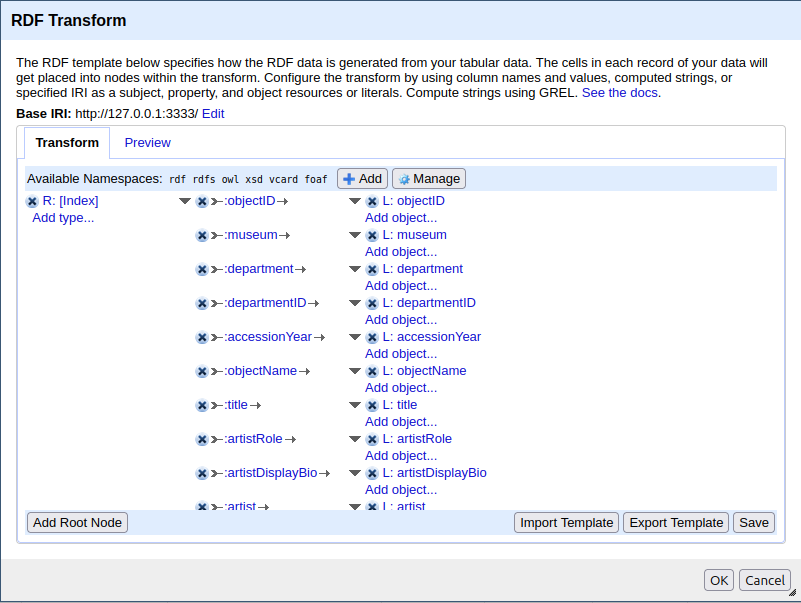
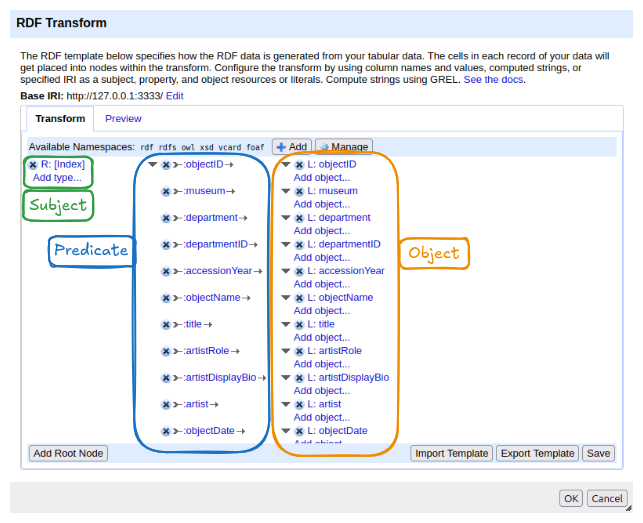
site deploy
Auto-generated via `{sandpaper}`
Source  : 49c0e96f1dabf45e04de74ced19de468ad7f9cb5
Branch  : md-outputs
Author  : GitHub Actions <actions@github.com>
Time    : 2026-05-28 12:38:04 +0000
Message : markdown source builds

Auto-generated via `{sandpaper}`
Source  : b505fab1cb0240944af9237929249dddd8930560
Branch  : main
Author  : Robert Zwick <robert.zwick@adwmainz.de>
Time    : 2026-05-28 12:37:15 +0000
Message : Add new image of rdf-transform

Changed region(s): [[0.0, 0.0, 1.0, 1.0]]

diff --git a/aio.html b/aio.html
@@ -670,7 +670,7 @@ Museum of Modern Art in Manhattan.</p>
 <button class="accordion-button solution-button collapsed" type="button" data-bs-toggle="collapse" data-bs-target="#collapseSolution1" aria-expanded="false" aria-controls="collapseSolution1">
   <h4 class="accordion-header" id="headingSolution1"> Show me the solution </h4>
 </button>
-<div id="collapseSolution1" class="accordion-collapse collapse" data-bs-parent="#accordionSolution1" aria-labelledby="headingSolution1">
+<div id="collapseSolution1" class="accordion-collapse collapse" aria-labelledby="headingSolution1" data-bs-parent="#accordionSolution1">
 <div class="accordion-body">
 <p>One way to visualize both texts in one graph is the following. If
 your solution looks different, this does not necessarily mean that it is
@@ -881,7 +881,7 @@ addresses this problem?</li>
 <button class="accordion-button solution-button collapsed" type="button" data-bs-toggle="collapse" data-bs-target="#collapseSolution1" aria-expanded="false" aria-controls="collapseSolution1">
   <h4 class="accordion-header" id="headingSolution1"> Show me the solution </h4>
 </button>
-<div id="collapseSolution1" class="accordion-collapse collapse" data-bs-parent="#accordionSolution1" aria-labelledby="headingSolution1">
+<div id="collapseSolution1" class="accordion-collapse collapse" aria-labelledby="headingSolution1" data-bs-parent="#accordionSolution1">
 <div class="accordion-body">
 <p><strong>Wikidata IRI</strong>:
 <code>https://www.wikidata.org/wiki/Q5582</code> Namespace:
@@ -1384,7 +1384,7 @@ Museum of Modern Art in Manhattan.</p>
 <button class="accordion-button solution-button collapsed" type="button" data-bs-toggle="collapse" data-bs-target="#collapseSolution1" aria-expanded="false" aria-controls="collapseSolution1">
   <h4 class="accordion-header" id="headingSolution1"> Show me the solution </h4>
 </button>
-<div id="collapseSolution1" class="accordion-collapse collapse" aria-labelledby="headingSolution1" data-bs-parent="#accordionSolution1">
+<div id="collapseSolution1" class="accordion-collapse collapse" data-bs-parent="#accordionSolution1" aria-labelledby="headingSolution1">
 <div class="accordion-body">
 <p>There is no single correct answer, your solution depends on which
 connections you modelled in your mind map. The following are examples of
@@ -1883,7 +1883,7 @@ assigning labels to them.</p>
 <button class="accordion-button solution-button collapsed" type="button" data-bs-toggle="collapse" data-bs-target="#collapseSolution1" aria-expanded="false" aria-controls="collapseSolution1">
   <h4 class="accordion-header" id="headingSolution1"> Show me the solution </h4>
 </button>
-<div id="collapseSolution1" class="accordion-collapse collapse" aria-labelledby="headingSolution1" data-bs-parent="#accordionSolution1">
+<div id="collapseSolution1" class="accordion-collapse collapse" data-bs-parent="#accordionSolution1" aria-labelledby="headingSolution1">
 <div class="accordion-body">
 <p>TODO: Add image of mindmap</p>
 <p>Central nodes are the ones with the objectIDs, artist, department and
@@ -1914,7 +1914,7 @@ museum. Modeling decisions are subjective.</p>
 <button class="accordion-button solution-button collapsed" type="button" data-bs-toggle="collapse" data-bs-target="#collapseSolution2" aria-expanded="false" aria-controls="collapseSolution2">
   <h4 class="accordion-header" id="headingSolution2"> Show me the solution </h4>
 </button>
-<div id="collapseSolution2" class="accordion-collapse collapse" aria-labelledby="headingSolution2" data-bs-parent="#accordionSolution2">
+<div id="collapseSolution2" class="accordion-collapse collapse" data-bs-parent="#accordionSolution2" aria-labelledby="headingSolution2">
 <div class="accordion-body">
 
 </div>
@@ -1963,7 +1963,7 @@ terms, meanings and rules.</p>
 <button class="accordion-button solution-button collapsed" type="button" data-bs-toggle="collapse" data-bs-target="#collapseSolution3" aria-expanded="false" aria-controls="collapseSolution3">
   <h4 class="accordion-header" id="headingSolution3"> Show me the solution </h4>
 </button>
-<div id="collapseSolution3" class="accordion-collapse collapse" aria-labelledby="headingSolution3" data-bs-parent="#accordionSolution3">
+<div id="collapseSolution3" class="accordion-collapse collapse" data-bs-parent="#accordionSolution3" aria-labelledby="headingSolution3">
 <div class="accordion-body">
 
 </div>
@@ -1994,7 +1994,7 @@ vacabularies</h3>
 <button class="accordion-button solution-button collapsed" type="button" data-bs-toggle="collapse" data-bs-target="#collapseSolution4" aria-expanded="false" aria-controls="collapseSolution4">
   <h4 class="accordion-header" id="headingSolution4"> Show me the solution </h4>
 </button>
-<div id="collapseSolution4" class="accordion-collapse collapse" aria-labelledby="headingSolution4" data-bs-parent="#accordionSolution4">
+<div id="collapseSolution4" class="accordion-collapse collapse" data-bs-parent="#accordionSolution4" aria-labelledby="headingSolution4">
 <div class="accordion-body">
 
 </div>

diff --git a/instructor/aio.html b/instructor/aio.html
@@ -673,7 +673,7 @@ Museum of Modern Art in Manhattan.</p>
 <button class="accordion-button solution-button collapsed" type="button" data-bs-toggle="collapse" data-bs-target="#collapseSolution1" aria-expanded="false" aria-controls="collapseSolution1">
   <h4 class="accordion-header" id="headingSolution1"> Show me the solution </h4>
 </button>
-<div id="collapseSolution1" class="accordion-collapse collapse" data-bs-parent="#accordionSolution1" aria-labelledby="headingSolution1">
+<div id="collapseSolution1" class="accordion-collapse collapse" aria-labelledby="headingSolution1" data-bs-parent="#accordionSolution1">
 <div class="accordion-body">
 <p>One way to visualize both texts in one graph is the following. If
 your solution looks different, this does not necessarily mean that it is
@@ -885,7 +885,7 @@ addresses this problem?</li>
 <button class="accordion-button solution-button collapsed" type="button" data-bs-toggle="collapse" data-bs-target="#collapseSolution1" aria-expanded="false" aria-controls="collapseSolution1">
   <h4 class="accordion-header" id="headingSolution1"> Show me the solution </h4>
 </button>
-<div id="collapseSolution1" class="accordion-collapse collapse" data-bs-parent="#accordionSolution1" aria-labelledby="headingSolution1">
+<div id="collapseSolution1" class="accordion-collapse collapse" aria-labelledby="headingSolution1" data-bs-parent="#accordionSolution1">
 <div class="accordion-body">
 <p><strong>Wikidata IRI</strong>:
 <code>https://www.wikidata.org/wiki/Q5582</code> Namespace:
@@ -1389,7 +1389,7 @@ Museum of Modern Art in Manhattan.</p>
 <button class="accordion-button solution-button collapsed" type="button" data-bs-toggle="collapse" data-bs-target="#collapseSolution1" aria-expanded="false" aria-controls="collapseSolution1">
   <h4 class="accordion-header" id="headingSolution1"> Show me the solution </h4>
 </button>
-<div id="collapseSolution1" class="accordion-collapse collapse" aria-labelledby="headingSolution1" data-bs-parent="#accordionSolution1">
+<div id="collapseSolution1" class="accordion-collapse collapse" data-bs-parent="#accordionSolution1" aria-labelledby="headingSolution1">
 <div class="accordion-body">
 <p>There is no single correct answer, your solution depends on which
 connections you modelled in your mind map. The following are examples of
@@ -1890,7 +1890,7 @@ assigning labels to them.</p>
 <button class="accordion-button solution-button collapsed" type="button" data-bs-toggle="collapse" data-bs-target="#collapseSolution1" aria-expanded="false" aria-controls="collapseSolution1">
   <h4 class="accordion-header" id="headingSolution1"> Show me the solution </h4>
 </button>
-<div id="collapseSolution1" class="accordion-collapse collapse" aria-labelledby="headingSolution1" data-bs-parent="#accordionSolution1">
+<div id="collapseSolution1" class="accordion-collapse collapse" data-bs-parent="#accordionSolution1" aria-labelledby="headingSolution1">
 <div class="accordion-body">
 <p>TODO: Add image of mindmap</p>
 <p>Central nodes are the ones with the objectIDs, artist, department and
@@ -1921,7 +1921,7 @@ museum. Modeling decisions are subjective.</p>
 <button class="accordion-button solution-button collapsed" type="button" data-bs-toggle="collapse" data-bs-target="#collapseSolution2" aria-expanded="false" aria-controls="collapseSolution2">
   <h4 class="accordion-header" id="headingSolution2"> Show me the solution </h4>
 </button>
-<div id="collapseSolution2" class="accordion-collapse collapse" aria-labelledby="headingSolution2" data-bs-parent="#accordionSolution2">
+<div id="collapseSolution2" class="accordion-collapse collapse" data-bs-parent="#accordionSolution2" aria-labelledby="headingSolution2">
 <div class="accordion-body">
 
 </div>
@@ -1970,7 +1970,7 @@ terms, meanings and rules.</p>
 <button class="accordion-button solution-button collapsed" type="button" data-bs-toggle="collapse" data-bs-target="#collapseSolution3" aria-expanded="false" aria-controls="collapseSolution3">
   <h4 class="accordion-header" id="headingSolution3"> Show me the solution </h4>
 </button>
-<div id="collapseSolution3" class="accordion-collapse collapse" aria-labelledby="headingSolution3" data-bs-parent="#accordionSolution3">
+<div id="collapseSolution3" class="accordion-collapse collapse" data-bs-parent="#accordionSolution3" aria-labelledby="headingSolution3">
 <div class="accordion-body">
 
 </div>
@@ -2001,7 +2001,7 @@ vacabularies</h3>
 <button class="accordion-button solution-button collapsed" type="button" data-bs-toggle="collapse" data-bs-target="#collapseSolution4" aria-expanded="false" aria-controls="collapseSolution4">
   <h4 class="accordion-header" id="headingSolution4"> Show me the solution </h4>
 </button>
-<div id="collapseSolution4" class="accordion-collapse collapse" aria-labelledby="headingSolution4" data-bs-parent="#accordionSolution4">
+<div id="collapseSolution4" class="accordion-collapse collapse" data-bs-parent="#accordionSolution4" aria-labelledby="headingSolution4">
 <div class="accordion-body">
 
 </div>

diff --git a/05_model.html b/05_model.html
@@ -421,7 +421,7 @@ assigning labels to them.</p>
 <button class="accordion-button solution-button collapsed" type="button" data-bs-toggle="collapse" data-bs-target="#collapseSolution1" aria-expanded="false" aria-controls="collapseSolution1">
   <h4 class="accordion-header" id="headingSolution1"> Show me the solution </h4>
 </button>
-<div id="collapseSolution1" class="accordion-collapse collapse" aria-labelledby="headingSolution1" data-bs-parent="#accordionSolution1">
+<div id="collapseSolution1" class="accordion-collapse collapse" data-bs-parent="#accordionSolution1" aria-labelledby="headingSolution1">
 <div class="accordion-body">
 <p>TODO: Add image of mindmap</p>
 <p>Central nodes are the ones with the objectIDs, artist, department and
@@ -450,7 +450,7 @@ museum. Modeling decisions are subjective.</p>
 <button class="accordion-button solution-button collapsed" type="button" data-bs-toggle="collapse" data-bs-target="#collapseSolution2" aria-expanded="false" aria-controls="collapseSolution2">
   <h4 class="accordion-header" id="headingSolution2"> Show me the solution </h4>
 </button>
-<div id="collapseSolution2" class="accordion-collapse collapse" aria-labelledby="headingSolution2" data-bs-parent="#accordionSolution2">
+<div id="collapseSolution2" class="accordion-collapse collapse" data-bs-parent="#accordionSolution2" aria-labelledby="headingSolution2">
 <div class="accordion-body">
 
 </div>
@@ -491,7 +491,7 @@ terms, meanings and rules.</p>
 <button class="accordion-button solution-button collapsed" type="button" data-bs-toggle="collapse" data-bs-target="#collapseSolution3" aria-expanded="false" aria-controls="collapseSolution3">
   <h4 class="accordion-header" id="headingSolution3"> Show me the solution </h4>
 </button>
-<div id="collapseSolution3" class="accordion-collapse collapse" aria-labelledby="headingSolution3" data-bs-parent="#accordionSolution3">
+<div id="collapseSolution3" class="accordion-collapse collapse" data-bs-parent="#accordionSolution3" aria-labelledby="headingSolution3">
 <div class="accordion-body">
 
 </div>
@@ -520,7 +520,7 @@ vacabularies</h3>
 <button class="accordion-button solution-button collapsed" type="button" data-bs-toggle="collapse" data-bs-target="#collapseSolution4" aria-expanded="false" aria-controls="collapseSolution4">
   <h4 class="accordion-header" id="headingSolution4"> Show me the solution </h4>
 </button>
-<div id="collapseSolution4" class="accordion-collapse collapse" aria-labelledby="headingSolution4" data-bs-parent="#accordionSolution4">
+<div id="collapseSolution4" class="accordion-collapse collapse" data-bs-parent="#accordionSolution4" aria-labelledby="headingSolution4">
 <div class="accordion-body">
 
 </div>

diff --git a/instructor/05_model.html b/instructor/05_model.html
@@ -423,7 +423,7 @@ assigning labels to them.</p>
 <button class="accordion-button solution-button collapsed" type="button" data-bs-toggle="collapse" data-bs-target="#collapseSolution1" aria-expanded="false" aria-controls="collapseSolution1">
   <h4 class="accordion-header" id="headingSolution1"> Show me the solution </h4>
 </button>
-<div id="collapseSolution1" class="accordion-collapse collapse" aria-labelledby="headingSolution1" data-bs-parent="#accordionSolution1">
+<div id="collapseSolution1" class="accordion-collapse collapse" data-bs-parent="#accordionSolution1" aria-labelledby="headingSolution1">
 <div class="accordion-body">
 <p>TODO: Add image of mindmap</p>
 <p>Central nodes are the ones with the objectIDs, artist, department and
@@ -452,7 +452,7 @@ museum. Modeling decisions are subjective.</p>
 <button class="accordion-button solution-button collapsed" type="button" data-bs-toggle="collapse" data-bs-target="#collapseSolution2" aria-expanded="false" aria-controls="collapseSolution2">
   <h4 class="accordion-header" id="headingSolution2"> Show me the solution </h4>
 </button>
-<div id="collapseSolution2" class="accordion-collapse collapse" aria-labelledby="headingSolution2" data-bs-parent="#accordionSolution2">
+<div id="collapseSolution2" class="accordion-collapse collapse" data-bs-parent="#accordionSolution2" aria-labelledby="headingSolution2">
 <div class="accordion-body">
 
 </div>
@@ -493,7 +493,7 @@ terms, meanings and rules.</p>
 <button class="accordion-button solution-button collapsed" type="button" data-bs-toggle="collapse" data-bs-target="#collapseSolution3" aria-expanded="false" aria-controls="collapseSolution3">
   <h4 class="accordion-header" id="headingSolution3"> Show me the solution </h4>
 </button>
-<div id="collapseSolution3" class="accordion-collapse collapse" aria-labelledby="headingSolution3" data-bs-parent="#accordionSolution3">
+<div id="collapseSolution3" class="accordion-collapse collapse" data-bs-parent="#accordionSolution3" aria-labelledby="headingSolution3">
 <div class="accordion-body">
 
 </div>
@@ -522,7 +522,7 @@ vacabularies</h3>
 <button class="accordion-button solution-button collapsed" type="button" data-bs-toggle="collapse" data-bs-target="#collapseSolution4" aria-expanded="false" aria-controls="collapseSolution4">
   <h4 class="accordion-header" id="headingSolution4"> Show me the solution </h4>
 </button>
-<div id="collapseSolution4" class="accordion-collapse collapse" aria-labelledby="headingSolution4" data-bs-parent="#accordionSolution4">
+<div id="collapseSolution4" class="accordion-collapse collapse" data-bs-parent="#accordionSolution4" aria-labelledby="headingSolution4">
 <div class="accordion-body">
 
 </div>

diff --git a/01_introduction.html b/01_introduction.html
@@ -595,7 +595,7 @@ Museum of Modern Art in Manhattan.</p>
 <button class="accordion-button solution-button collapsed" type="button" data-bs-toggle="collapse" data-bs-target="#collapseSolution1" aria-expanded="false" aria-controls="collapseSolution1">
   <h4 class="accordion-header" id="headingSolution1"> Show me the solution </h4>
 </button>
-<div id="collapseSolution1" class="accordion-collapse collapse" data-bs-parent="#accordionSolution1" aria-labelledby="headingSolution1">
+<div id="collapseSolution1" class="accordion-collapse collapse" aria-labelledby="headingSolution1" data-bs-parent="#accordionSolution1">
 <div class="accordion-body">
 <p>One way to visualize both texts in one graph is the following. If
 your solution looks different, this does not necessarily mean that it is

diff --git a/03_rdf.html b/03_rdf.html
@@ -692,7 +692,7 @@ Museum of Modern Art in Manhattan.</p>
 <button class="accordion-button solution-button collapsed" type="button" data-bs-toggle="collapse" data-bs-target="#collapseSolution1" aria-expanded="false" aria-controls="collapseSolution1">
   <h4 class="accordion-header" id="headingSolution1"> Show me the solution </h4>
 </button>
-<div id="collapseSolution1" class="accordion-collapse collapse" aria-labelledby="headingSolution1" data-bs-parent="#accordionSolution1">
+<div id="collapseSolution1" class="accordion-collapse collapse" data-bs-parent="#accordionSolution1" aria-labelledby="headingSolution1">
 <div class="accordion-body">
 <p>There is no single correct answer, your solution depends on which
 connections you modelled in your mind map. The following are examples of

diff --git a/instructor/01_introduction.html b/instructor/01_introduction.html
@@ -597,7 +597,7 @@ Museum of Modern Art in Manhattan.</p>
 <button class="accordion-button solution-button collapsed" type="button" data-bs-toggle="collapse" data-bs-target="#collapseSolution1" aria-expanded="false" aria-controls="collapseSolution1">
   <h4 class="accordion-header" id="headingSolution1"> Show me the solution </h4>
 </button>
-<div id="collapseSolution1" class="accordion-collapse collapse" data-bs-parent="#accordionSolution1" aria-labelledby="headingSolution1">
+<div id="collapseSolution1" class="accordion-collapse collapse" aria-labelledby="headingSolution1" data-bs-parent="#accordionSolution1">
 <div class="accordion-body">
 <p>One way to visualize both texts in one graph is the following. If
 your solution looks different, this does not necessarily mean that it is

diff --git a/instructor/03_rdf.html b/instructor/03_rdf.html
@@ -694,7 +694,7 @@ Museum of Modern Art in Manhattan.</p>
 <button class="accordion-button solution-button collapsed" type="button" data-bs-toggle="collapse" data-bs-target="#collapseSolution1" aria-expanded="false" aria-controls="collapseSolution1">
   <h4 class="accordion-header" id="headingSolution1"> Show me the solution </h4>
 </button>
-<div id="collapseSolution1" class="accordion-collapse collapse" aria-labelledby="headingSolution1" data-bs-parent="#accordionSolution1">
+<div id="collapseSolution1" class="accordion-collapse collapse" data-bs-parent="#accordionSolution1" aria-labelledby="headingSolution1">
 <div class="accordion-body">
 <p>There is no single correct answer, your solution depends on which
 connections you modelled in your mind map. The following are examples of

diff --git a/02_iris.html b/02_iris.html
@@ -532,7 +532,7 @@ addresses this problem?</li>
 <button class="accordion-button solution-button collapsed" type="button" data-bs-toggle="collapse" data-bs-target="#collapseSolution1" aria-expanded="false" aria-controls="collapseSolution1">
   <h4 class="accordion-header" id="headingSolution1"> Show me the solution </h4>
 </button>
-<div id="collapseSolution1" class="accordion-collapse collapse" data-bs-parent="#accordionSolution1" aria-labelledby="headingSolution1">
+<div id="collapseSolution1" class="accordion-collapse collapse" aria-labelledby="headingSolution1" data-bs-parent="#accordionSolution1">
 <div class="accordion-body">
 <p><strong>Wikidata IRI</strong>:
 <code>https://www.wikidata.org/wiki/Q5582</code> Namespace:

diff --git a/instructor/02_iris.html b/instructor/02_iris.html
@@ -534,7 +534,7 @@ addresses this problem?</li>
 <button class="accordion-button solution-button collapsed" type="button" data-bs-toggle="collapse" data-bs-target="#collapseSolution1" aria-expanded="false" aria-controls="collapseSolution1">
   <h4 class="accordion-header" id="headingSolution1"> Show me the solution </h4>
 </button>
-<div id="collapseSolution1" class="accordion-collapse collapse" data-bs-parent="#accordionSolution1" aria-labelledby="headingSolution1">
+<div id="collapseSolution1" class="accordion-collapse collapse" aria-labelledby="headingSolution1" data-bs-parent="#accordionSolution1">
 <div class="accordion-body">
 <p><strong>Wikidata IRI</strong>:
 <code>https://www.wikidata.org/wiki/Q5582</code> Namespace:
